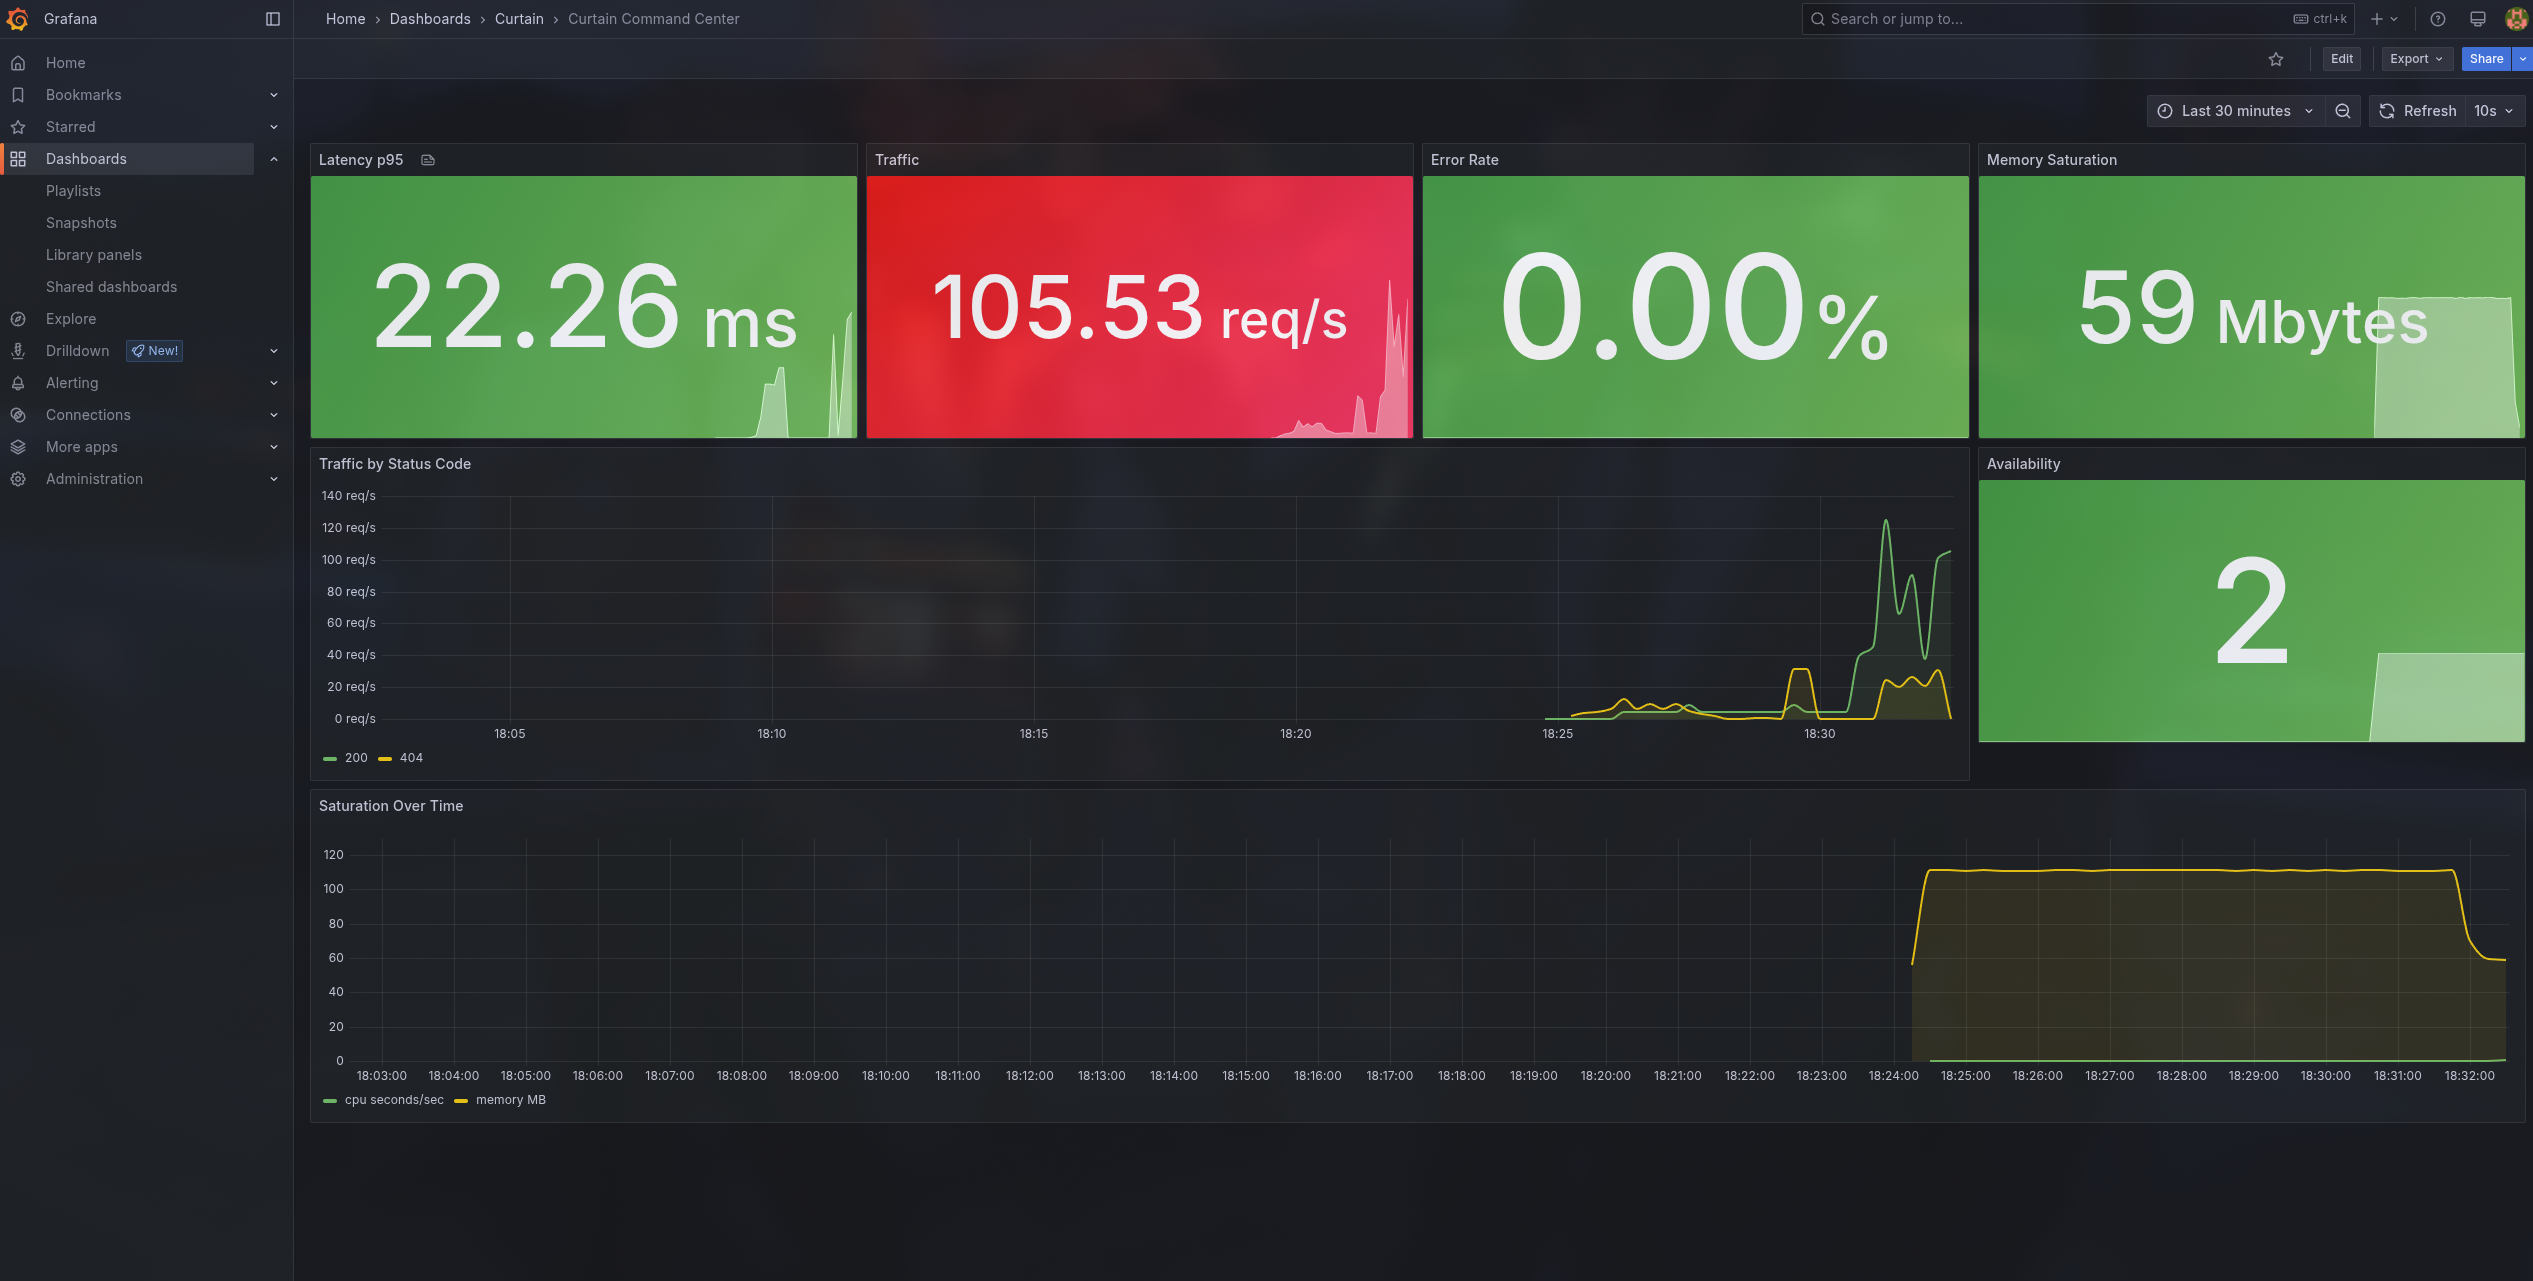
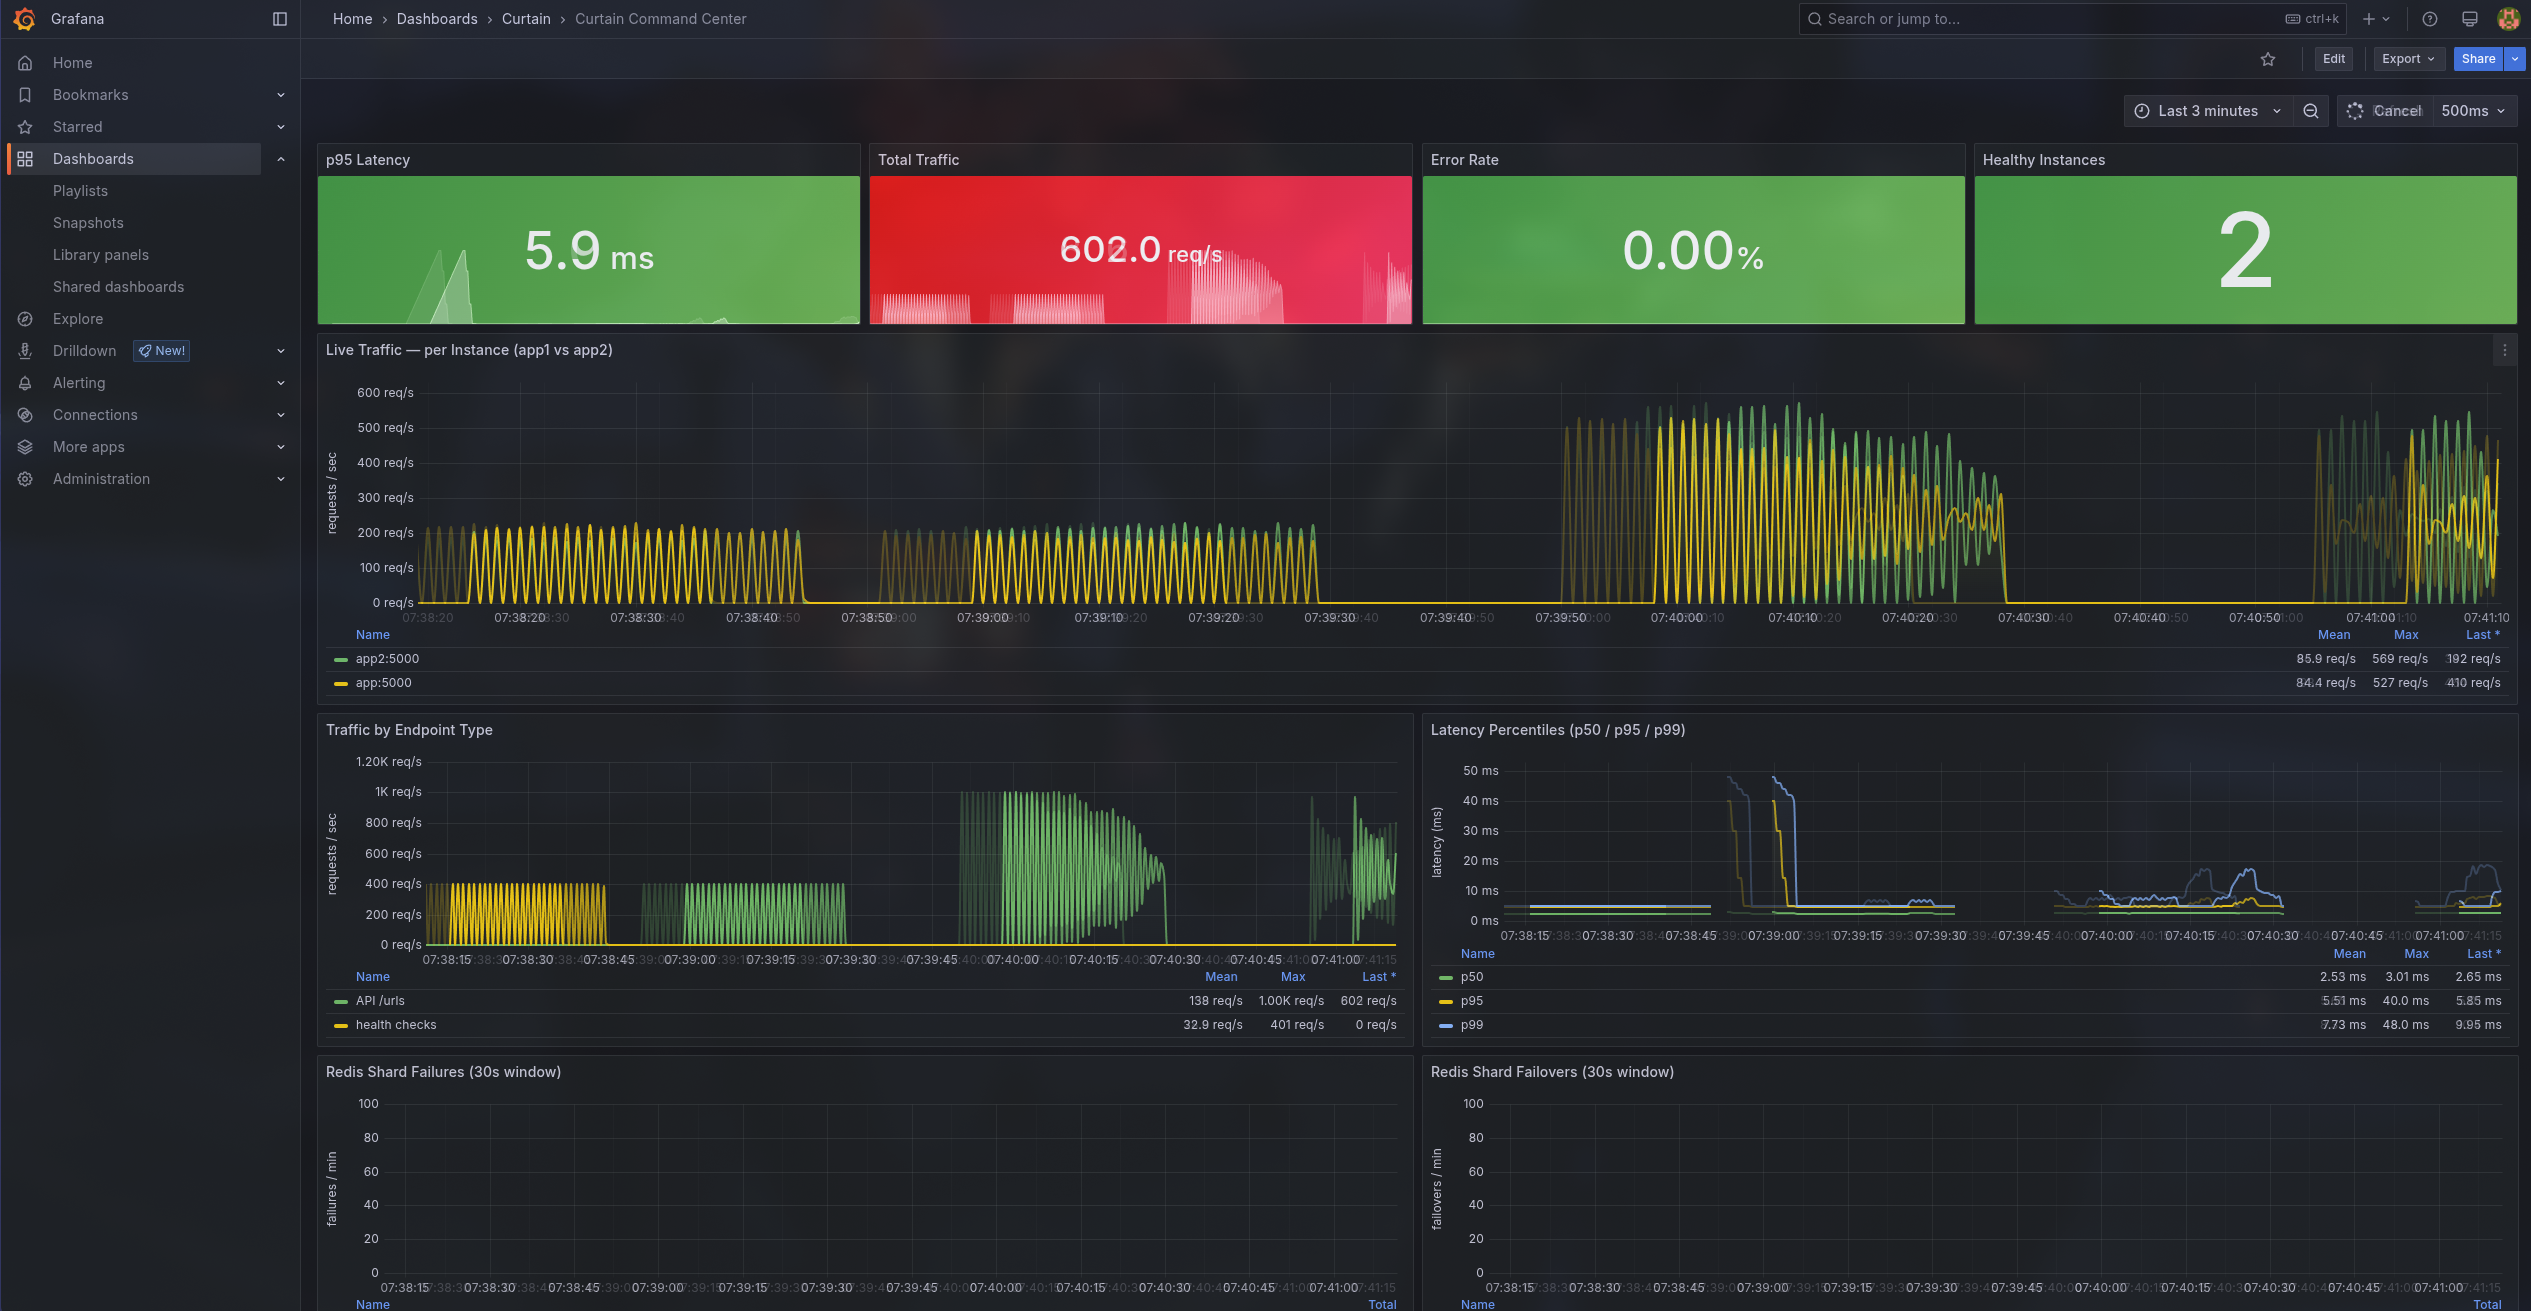
Refactor code structure for improved readability and maintainability

diff --git a/evidence/INCIDENT_RESPONSE_EVIDENCE.md b/evidence/INCIDENT_RESPONSE_EVIDENCE.md
@@ -13,6 +13,7 @@ Below is a screenshot of the metrics page exposed by the application.
 ![Metrics Page](../docs/images/incident_response/Bronze_incident_metrics.png)
 
 These demonstrate that the app emits structured JSON logs with timestamps and levels, and exposes a metrics endpoint that Prometheus can scrape for service and process signals.
+The `/metrics` page includes process-level CPU and memory metrics such as `process_cpu_seconds_total` and `process_resident_memory_bytes`.
 
 Relevant docs:
 
@@ -25,10 +26,14 @@ Silver is about alerting: defining failure rules, wiring notifications, and prov
 
 We will show the live alert demo in the project submission video, where a simulated failure results in a Discord notification.
 
+While we will show that in the Live Demo, below is the screenshot of the discord notification coming to over server.
+![Discord Notification](../docs/images/incident_response/Silver_discord.png)
+
 Below is a screenshot of the alert logic configuration located in [../monitoring/alerts.yml](../monitoring/alerts.yml).
 ![Alert Config](../docs/images/incident_response/Silver_Incident_alert_logic.png)
 
 This evidence supports the current alert setup for service-down and high-error-rate scenarios, along with the notification path that forwards alerts to Discord.
+Prometheus scrapes every `15s`, evaluates every `15s`, and the notifier polls every `15s`, so the alerting path operates comfortably within the quest’s 5-minute requirement.
 
 Relevant docs:
 
@@ -43,6 +48,7 @@ Below is a screenshot of the Grafana dashboard while the system is under load.
 ![Grafana Dashboard](../docs/images/incident_response/Gold_incident_dashboard_grafana.png)
 
 This dashboard is used to track the key operational signals needed for debugging, including request latency, traffic volume, error behavior, and process-level saturation indicators.
+We cross-verified the Grafana dashboard configuration and it includes panels for `p95 Latency`, `Total Traffic`, `Error Rate`, and `System Saturation — CPU & Memory per Instance`, which gives us the required dashboard coverage for latency, traffic, errors, and saturation.
 
 Runbook:
 
